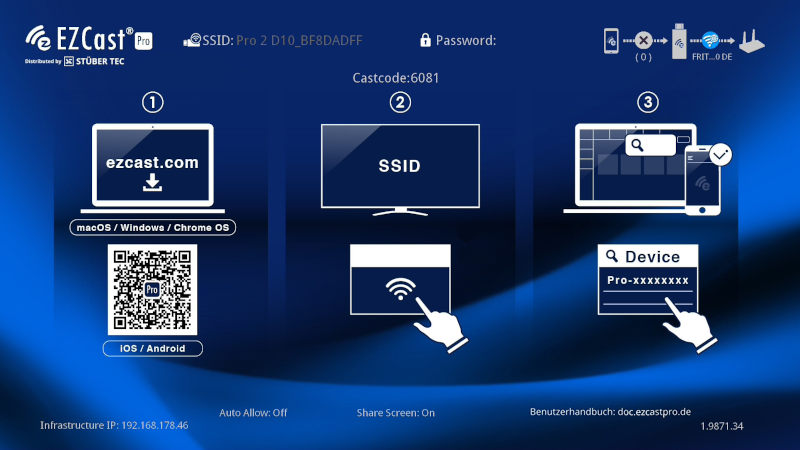
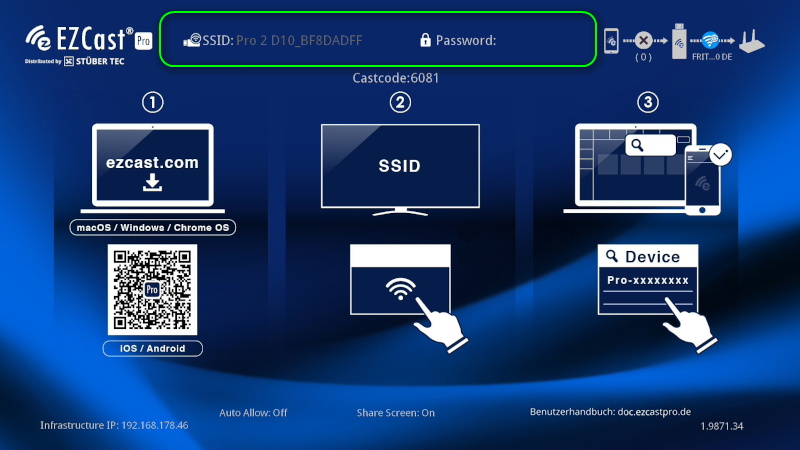
xx

Changed region(s): [[0.1875, 0.0, 0.75, 0.1556]]

diff --git a/docs/pro-box-b10/adv.settings.md b/docs/pro-box-b10/adv.settings.md
@@ -339,7 +339,7 @@ Standardmäßig sind beide Netzwerkschnittstellen durch die Einstellung `Über R
 
 Mit den ersten zwei Optionen `Über Router oder direkte Verbindung` sowie mit `Nur direkte Verbindung` werden die SSID und das Kennwort auf der Startseite angezeigt, wie unten abgebildet:
 
-![](/assets/img/ProIIDongle_landingpage.png)
+![](/assets/img/ezcastpro.II.ssid_password.png)
 
 Mit `Nur über Router` wird der Access-Point des EZCast Pro Gerätes  ausgeschaltet und Sie können nur über Ihre Infrastruktur mit dem Gerät verbinden. Die SSID und das Kennwort werden ausgegraut und die vom Router vergebene IP-Adresse bzw. die statische IP-Adresse des EZCast Pro Gerätes wird auf der Startseite angezeigt (unten links), wie unten abgebildet:
 

diff --git a/docs/pro-stick-d10/adv.settings.md b/docs/pro-stick-d10/adv.settings.md
@@ -340,7 +340,7 @@ Standardmäßig sind beide Netzwerkschnittstellen durch die Einstellung `Über R
 
 Mit den ersten zwei Optionen `Über Router oder direkte Verbindung` sowie mit `Nur direkte Verbindung` werden die SSID und das Kennwort auf der Startseite angezeigt, wie unten abgebildet:
 
-![](/assets/img/ProIIDongle_landingpage.png)
+![](/assets/img/ezcastpro.II.ssid_password.png)
 
 Mit `Nur über Router` wird der Access-Point des EZCast Pro Gerätes  ausgeschaltet und Sie können nur über Ihre Infrastruktur mit dem Gerät verbinden. Die SSID und das Kennwort werden ausgegraut und die vom Router vergebene IP-Adresse bzw. die statische IP-Adresse des EZCast Pro Gerätes wird auf der Startseite angezeigt (unten links), wie unten abgebildet:
 
